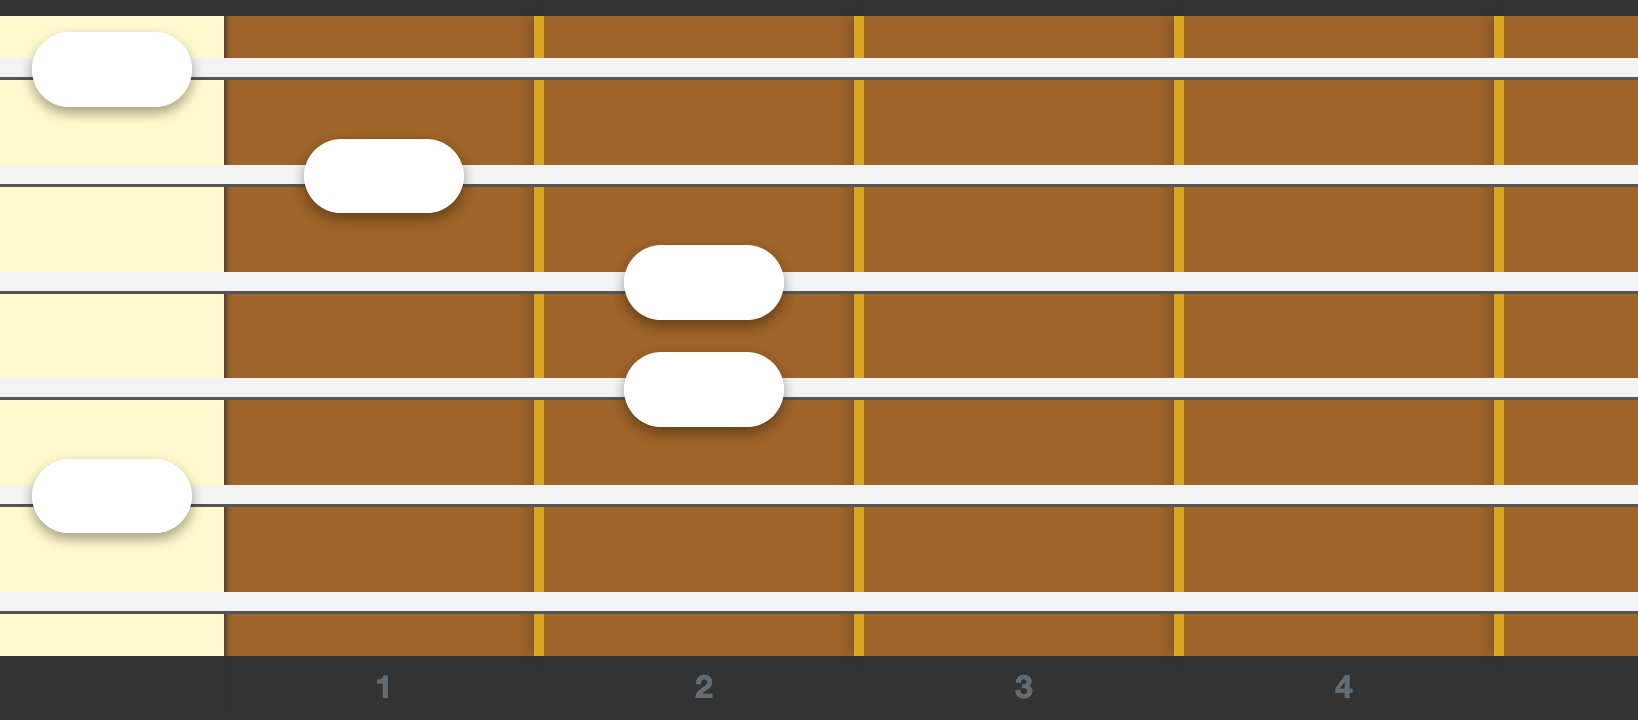
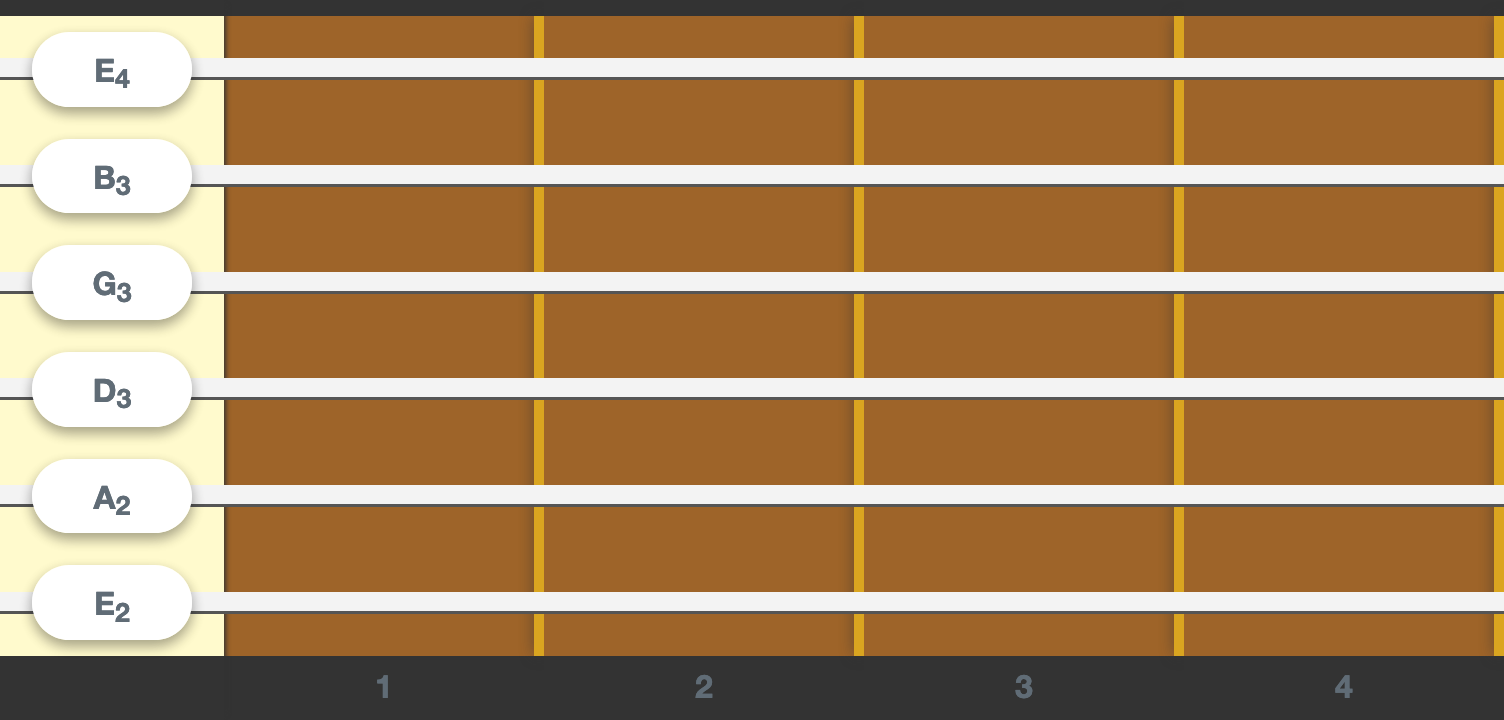
Showing note names

diff --git a/packages/site/components/Demo.tsx b/packages/site/components/Demo.tsx
@@ -1,4 +1,4 @@
-import Guitar, { useGuitar, tunings } from 'react-guitar'
+import Guitar, { useGuitar, tunings, getRenderFingerSpn } from 'react-guitar'
 import E2 from 'react-guitar/resources/E2.mp3'
 import D3 from 'react-guitar/resources/D3.mp3'
 import G3 from 'react-guitar/resources/G3.mp3'
@@ -61,6 +61,7 @@ export default function Demo() {
             frets={{ from: 0, amount: frets }}
             strings={strings}
             lefty={lefty}
+            renderFinger={getRenderFingerSpn(tunings.standard)}
             onChange={setStrings}
             onPlay={play}
           />
